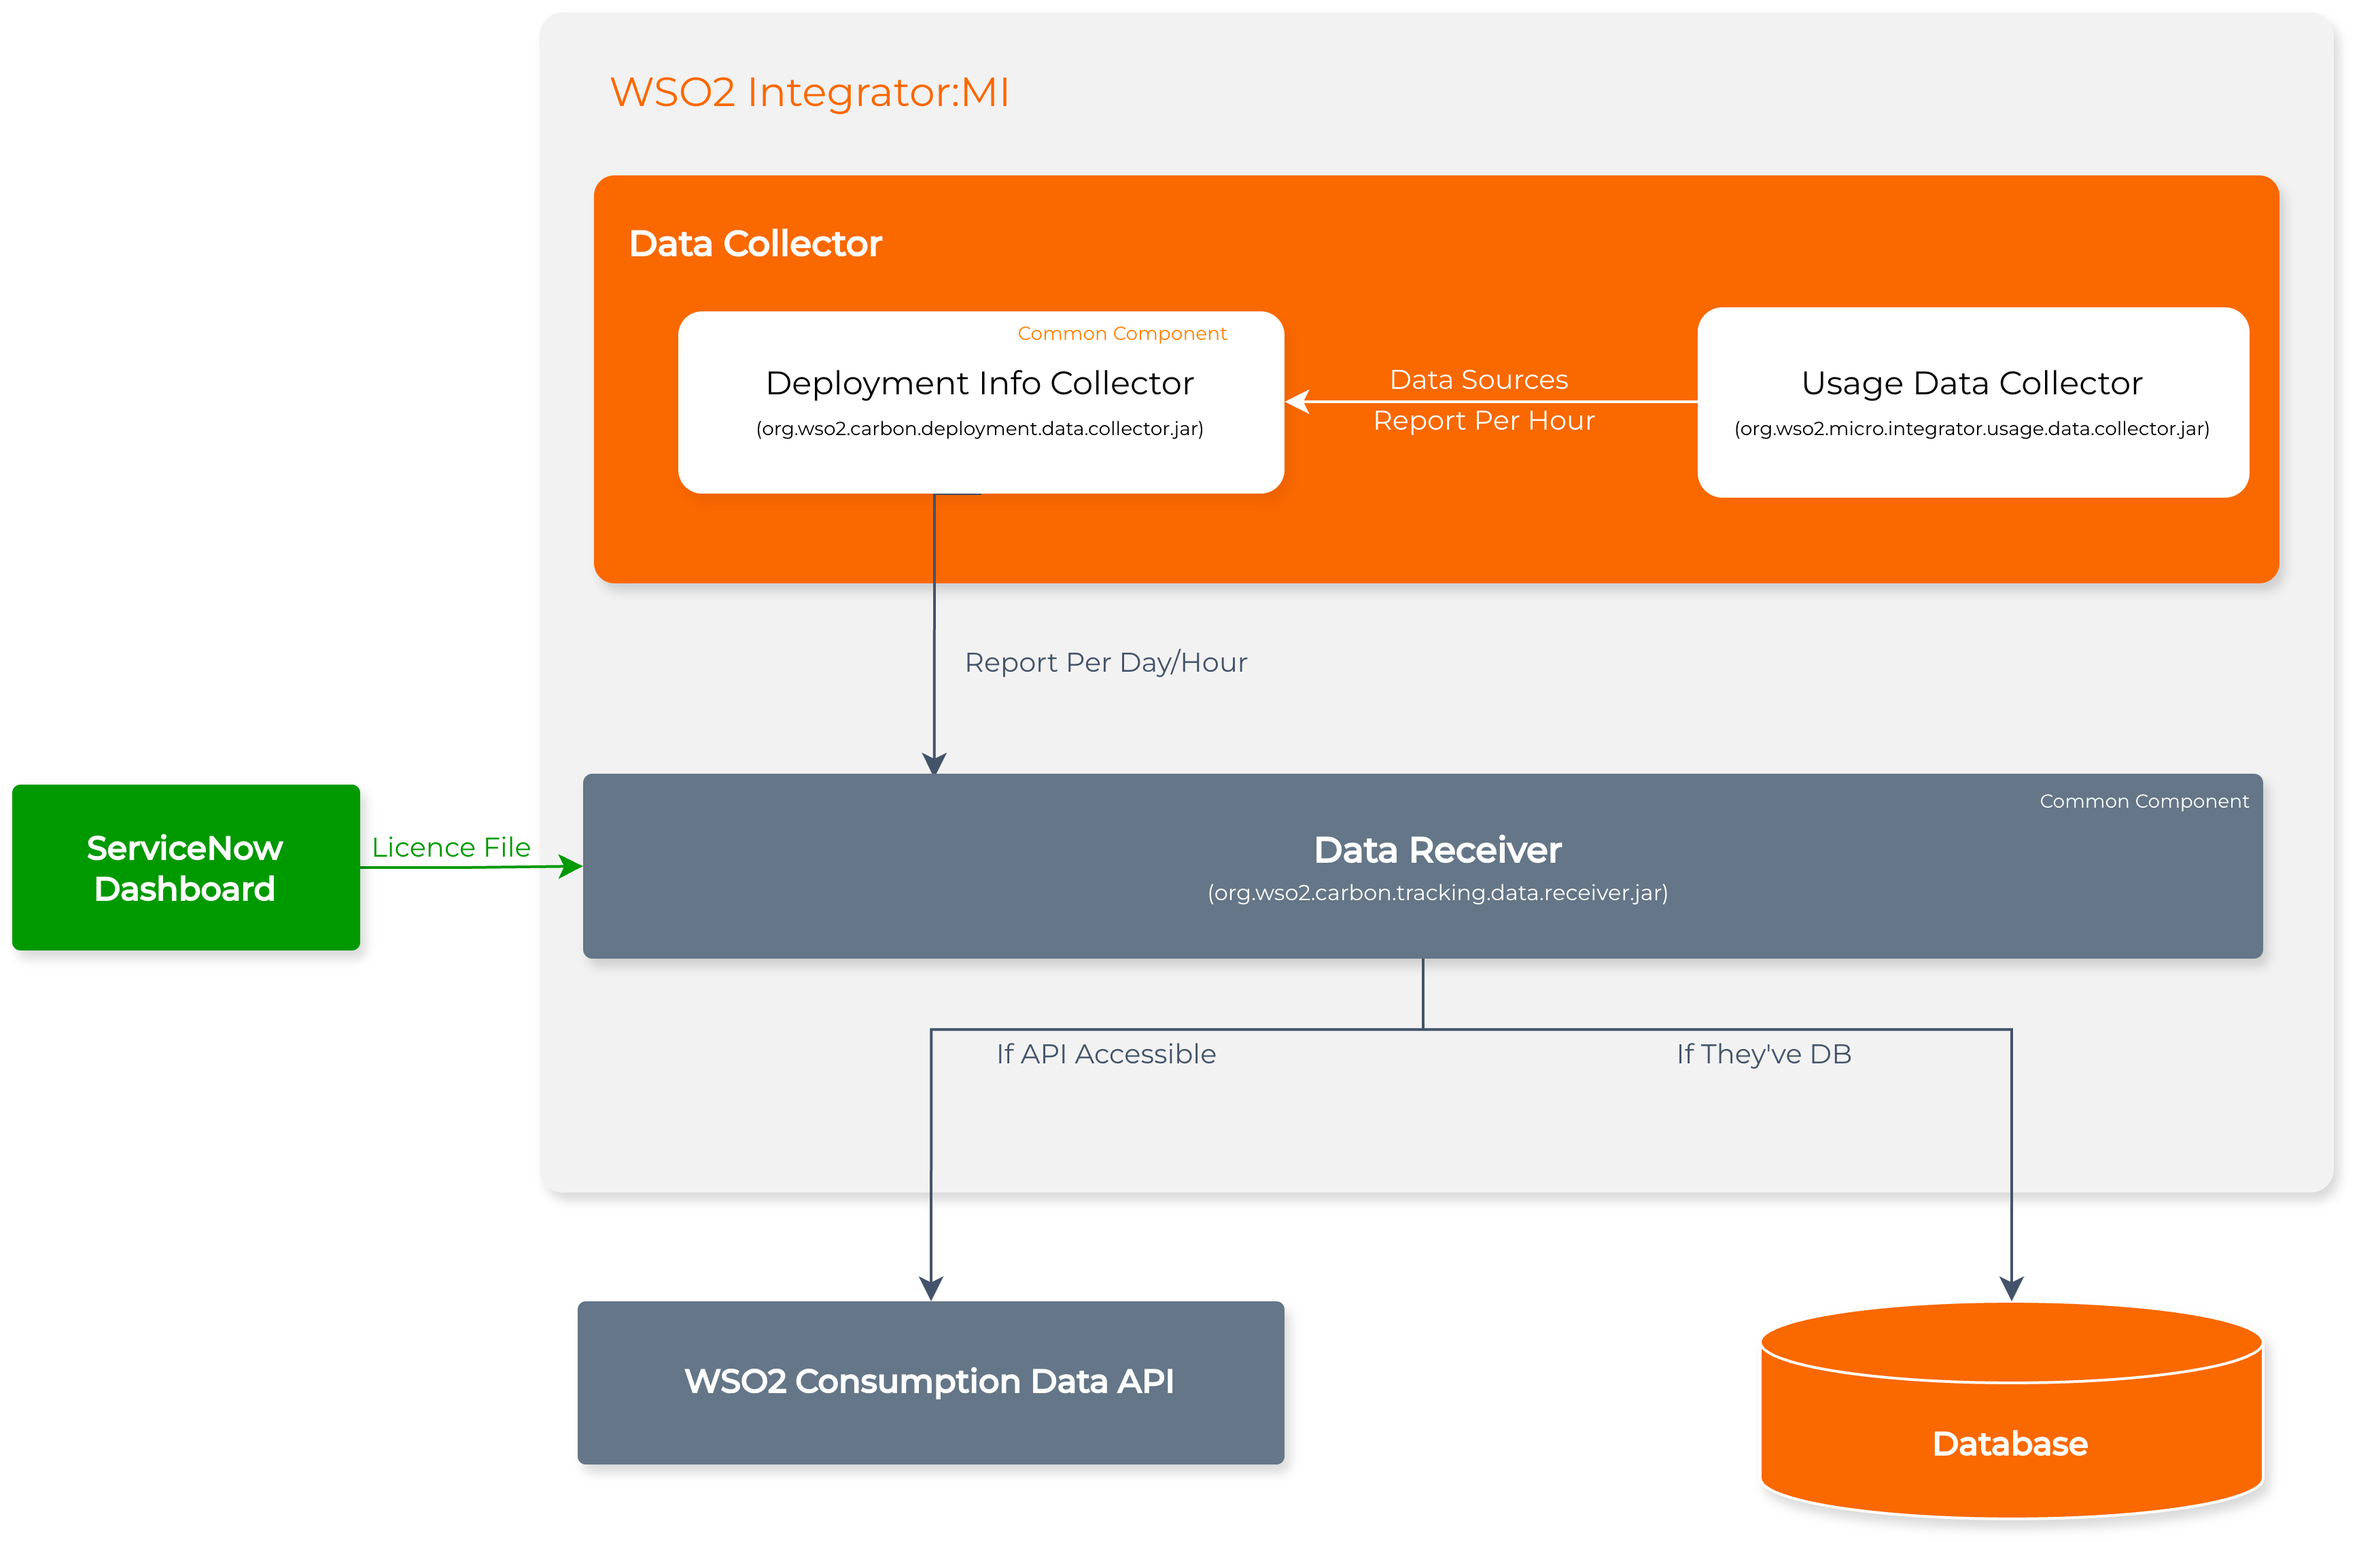
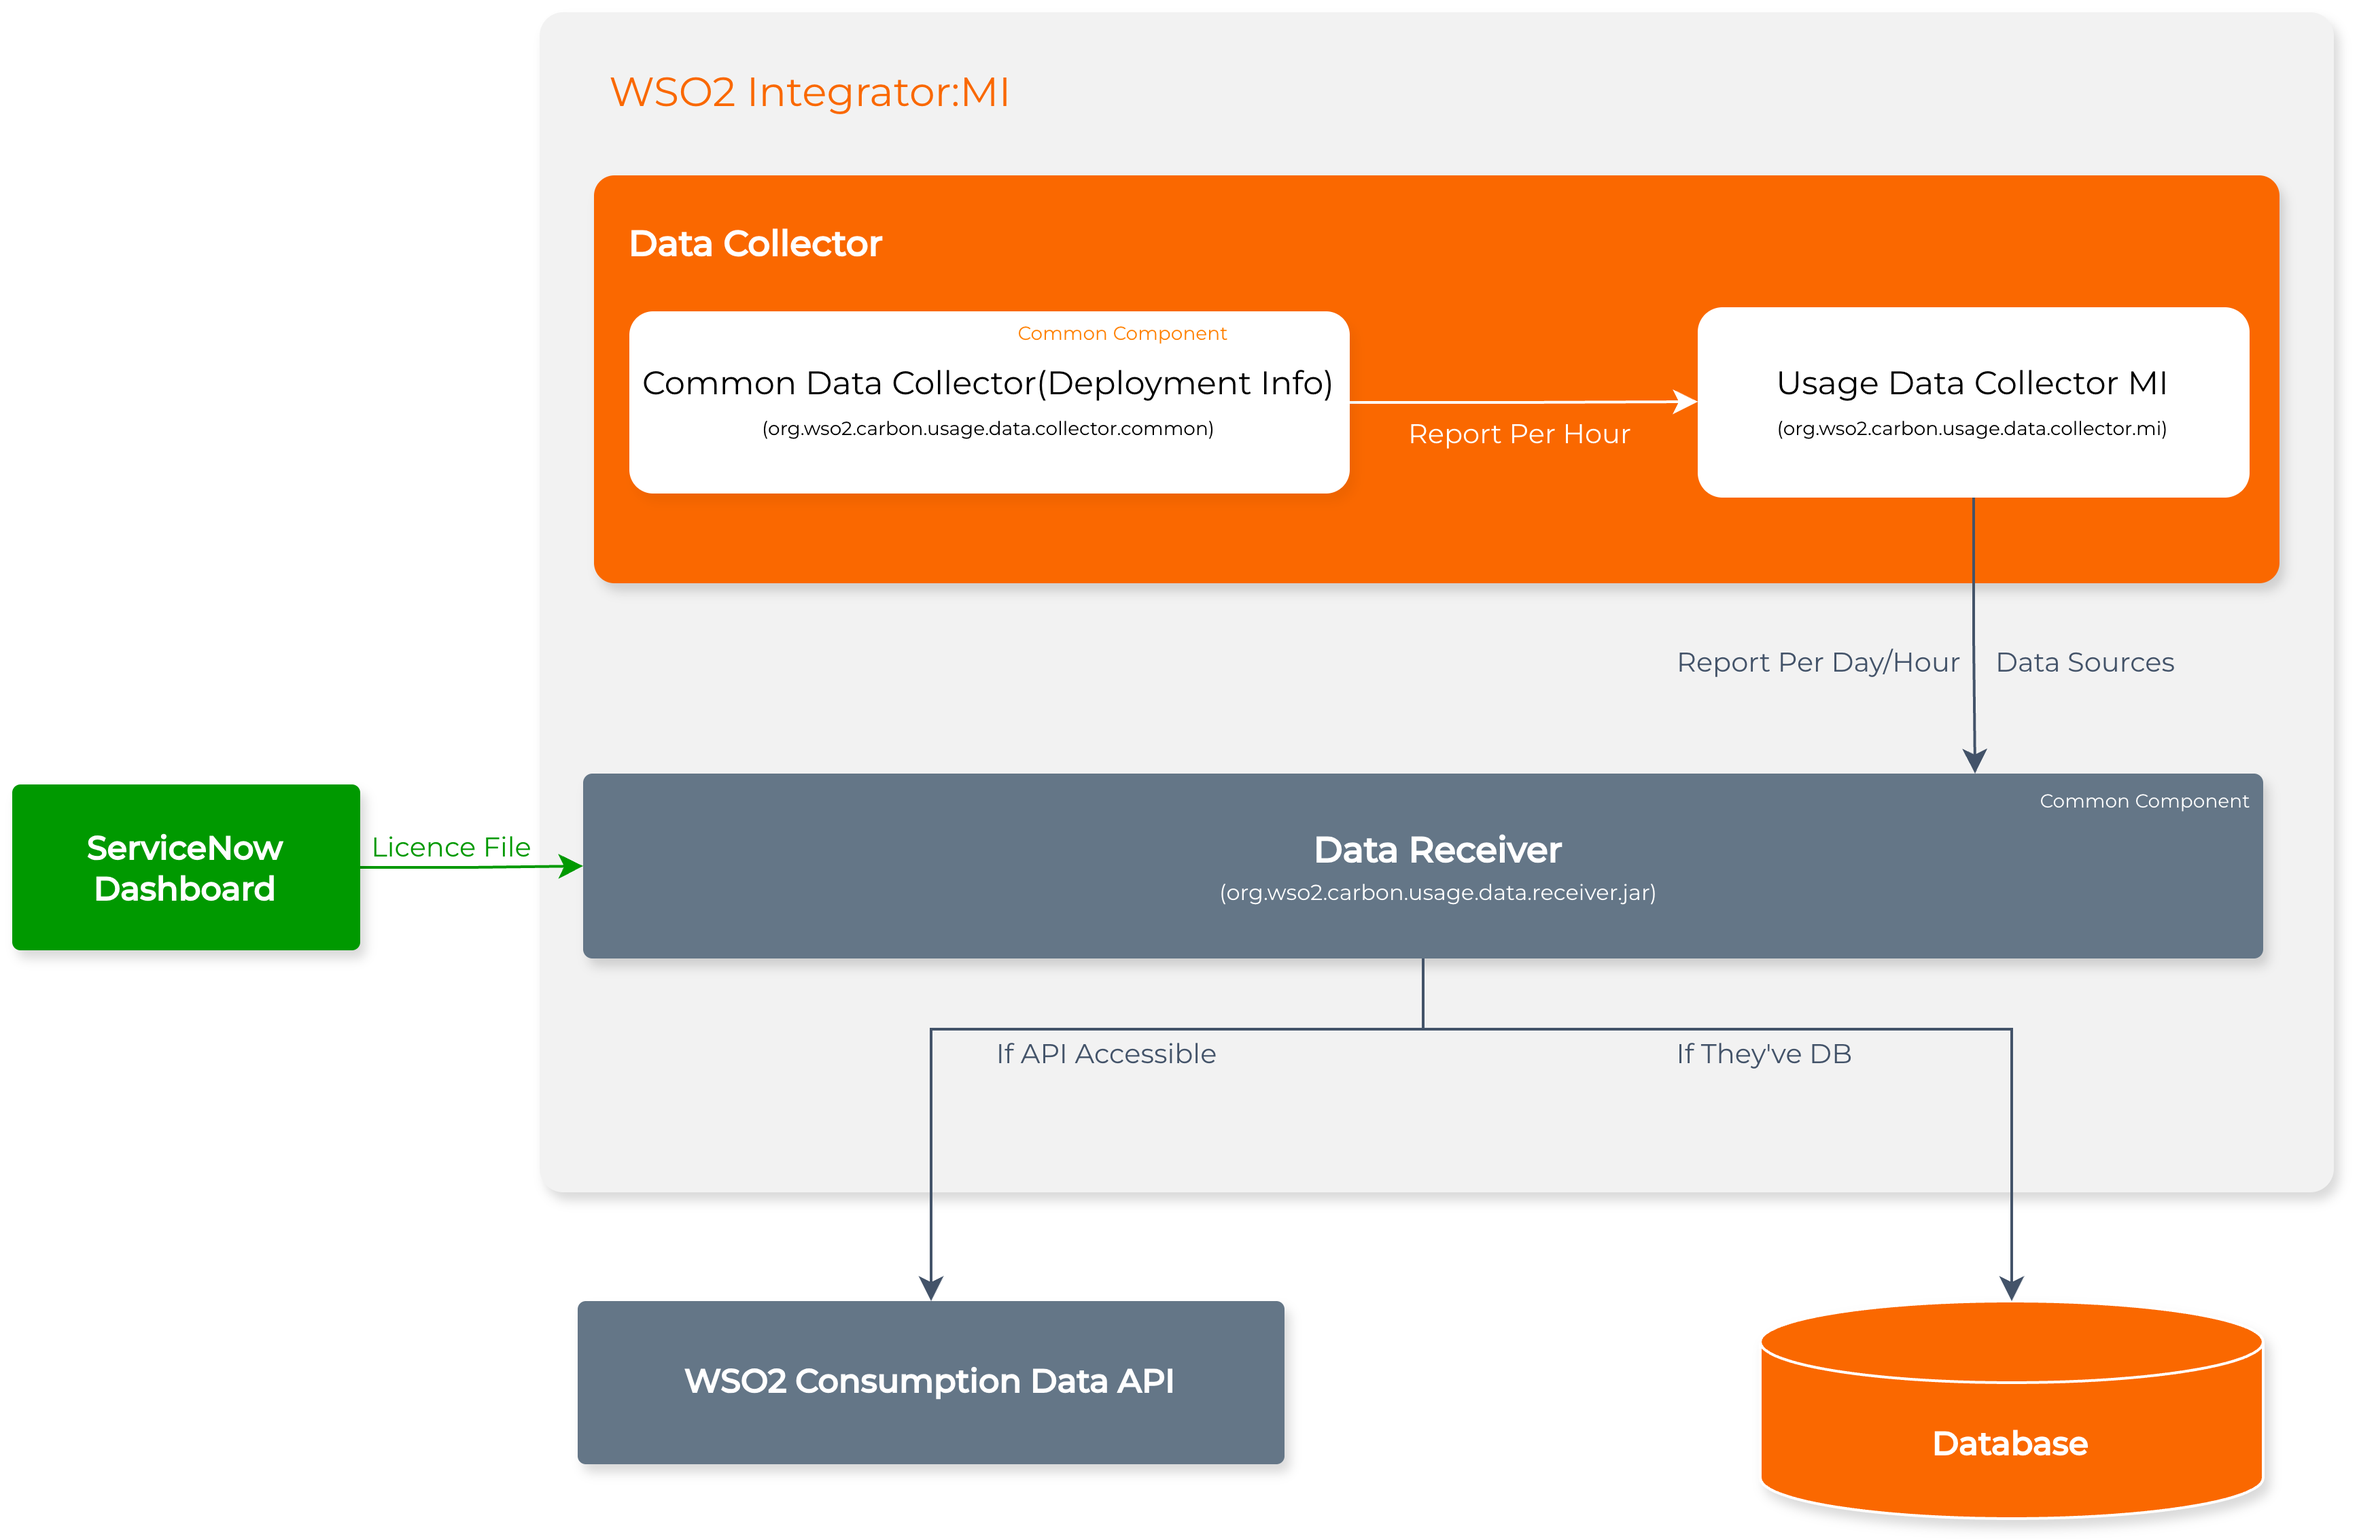
Update README.md

diff --git a/collectors/org.wso2.carbon.usage.data.collector.mi/README.md b/collectors/org.wso2.carbon.usage.data.collector.mi/README.md
@@ -1,13 +1,4 @@
-# WSO2 Usage Data Collector
-
-[![Build Status](https://img.shields.io/jenkins/build?jobUrl=https%3A%2F%2Fwso2.org%2Fjenkins%2Fview%2Fproducts%2Fjob%2Fproducts%2Fjob%2Fproduct-apim%2F)](<To be added>)
-[![License](https://img.shields.io/badge/License-Apache%202.0-blue.svg)](https://opensource.org/licenses/Apache-2.0)
-[![stackoverflow](https://img.shields.io/badge/stackoverflow-wso2mi-orange)](https://stackoverflow.com/tags/wso2-am/)
-[![stackoverflow](https://img.shields.io/badge/stackoverflow-wso2am-orange)](https://stackoverflow.com/tags/wso2-micro-integrator/)
-
----
-
-# Overview
+# WSO2 Usage Data Collector for Micro Integrator (MI)
 
 This directory contains the **WSO2 Usage Data Collector** - a component of the Consumption Tracker system designed to effectively track and record product consumption data within the **WSO2 Micro Integrator (MI)** environment.
 
@@ -32,11 +23,12 @@ The consumption tracking system consists of three main components deployed acros
 
 The system introduces three main components on the MI side:
 
-- **Data Collector** - Gathers usage and deployment information
+- **Common Data Collector** - Gathers environment-level data
+- **Usage Data Collector** - Gathers usage and deployment information and sends to Data Receiver
 - **Data Receiver** - Receives and secures data before forwarding to endpoints
 
 
-### Data Collector
+### Data Collectors
 
 The **Usage Data Collector** is the component housed in this repository. 
 
@@ -44,10 +36,10 @@ The broader Consumption Tracker system includes two types of data collectors:
 
 | Subcomponent | Description | Frequency / Trigger | Location |
 |--------------|-------------|---------------------|--------|
-| **Deployment Data Collector** | Collects environment-level data such as CPU core count, JDK version, OS, and update level. Publish usage-data, deployment info to the necessary location(API or/and DB)  | Daily/ EventBased / On restart | collectors/org.wso2.carbon.deployment.data.collector |
-| **Usage Data Collector** | Captures the number of transactions per hour processed by MI nodes. Give the publishing DB info to the Deployment Data Collector | Hourly | collectors/org.wso2.carbon.usage.data.collector.mi |
+| **Common Data Collector** | Collects environment-level data such as CPU core count, JDK version, OS, and update level. | Daily / On restart | collectors/org.wso2.carbon.usage.data.collector.common |
+| **Usage Data Collector** | Captures the number of transactions per hour processed by MI nodes. Give the publishing DB info to the Data Receiver. Publish usage-data, deployment info to the Data Receiver.  | Hourly / Event Based | org.wso2.carbon.usage.data.collector.mi |
 
-> **Note**: The **Usage Data Collector** component will be product specific and The Deployment Data Collector is a component designed for reuse across multiple WSO2 products.
+> **Note**: The **Usage Data Collector** component will be product specific and The Common Data Collector is a component designed for reuse across multiple WSO2 products.
 
 
 ### Data Access Options
@@ -55,7 +47,6 @@ The broader Consumption Tracker system includes two types of data collectors:
 - **Local Storage**: If data is stored locally, it can be exported using CLI commands when needed.
 - **Public API**: If data is published to the public API, WSO2 can directly monitor customer usage
 
----
 
 ### Data Receiver
 The **Data Receiver** component:
@@ -65,17 +56,6 @@ The **Data Receiver** component:
 - Publishes data based on the available destination:
   - **Choreo-hosted WSO2 API** (for cloud-based monitoring) [Priority]
   - **Internal Database** (for customers preferring on-premise storage)
-
-## Installation
-
-1. Copy the generated JAR to your MI installation:
-   ```bash
-   cp counter/target/org.wso2.carbon.usage.data.collector.mi-0.1.0.jar <MI_HOME>/lib/
-   ```
-
-2. Update the `deployment.toml` configuration as shown above
-
-3. Restart the MI server
 
 ## Building from Source
 
@@ -107,13 +87,42 @@ mvn clean install
 usage-data-collector/
 ├── collectors/
 │   └── org.wso2.carbon.usage.data.collector.mi/
-│       ├── src/
-│       │   └── main/
-│       │       ├── java/                  # Java source files
-│       │       └── resources/             # Resource files
-│       ├── pom.xml                        # Maven build file
-│       └── README.md                      # This README file
-└── README.md                             # Root README file
+│       src
+│       └── main
+│           └── java
+│               └── org
+│                   ├── apache
+│                   │   ├── axis2
+│                   │   │   └── context
+│                   │   │       └── MessageContext.java         # Axis2 message context representation
+│                   │   └── synapse
+│                   │       ├── AbstractExtendedSynapseHandler.java   # Base handler for Synapse extensions
+│                   │       ├── core
+│                   │       │   └── axis2
+│                   │       │       └── Axis2MessageContext.java      # Synapse wrapper for Axis2 message context
+│                   │       └── MessageContext.java                   # Synapse message context abstraction
+│                   └── wso2
+│                       └── carbon
+│                           └── usage
+│                               └── data
+│                                   └── collector
+│                                       └── mi
+│                                           ├── datasource
+│                                           │   └── DataSourceProvider.java         # Provides DB connections for publishing
+│                                           ├── publisher
+│                                           │   └── PublisherImpl.java              # Implements data publishing logic
+│                                           └── transaction
+│                                               ├── aggregator
+│                                               │   └── TransactionAggregator.java  # Aggregates transaction data hourly
+│                                               ├── counter
+│                                               │   ├── TransactionCounterConstants.java   # Constants for transaction counting
+│                                               │   ├── TransactionCountHandler.java       # Handles transaction count events
+│                                               │   └── TransactionCountingLogic.java      # Core logic for counting transactions
+│                                               ├── publisher
+│                                               │   ├── TransactionPublisher.java          # Interface for publishing transactions
+│                                               │   └── TransactionPublisherImpl.java      # Implementation for publishing transactions
+│                                               └── record
+│                                                   └── TransactionReport.java             # Model for transaction report data
 ```
 
 ---
